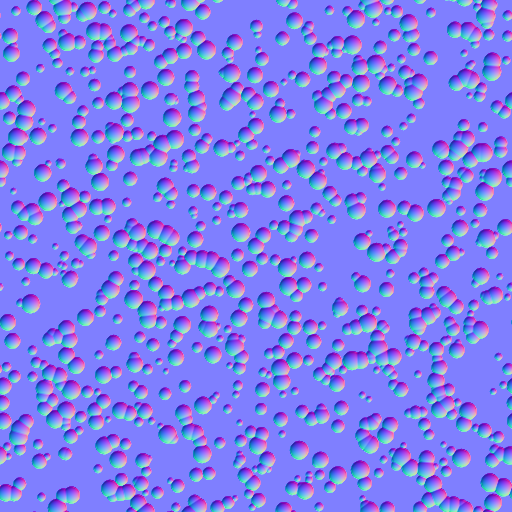
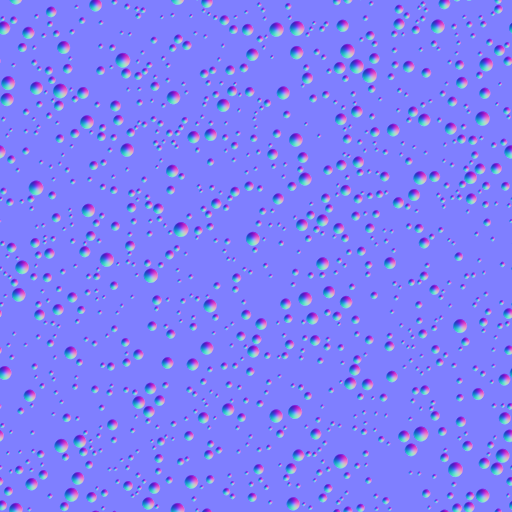
Sparse bead map, dust vs mud, windscreen drops overlay (flagged)

diff --git a/tools/gen_droplets.py b/tools/gen_droplets.py
@@ -3,13 +3,21 @@
 import os, numpy as np
 from PIL import Image
 N, rng = 512, np.random.default_rng(7)
+TARGET = 0.12                                   # share of the tile that is a bead: rain on paint is sparse, flat paint in between
 h = np.zeros((N, N), np.float32)
 yy, xx = np.mgrid[0:N, 0:N].astype(np.float32)
-for _ in range(900):
-    cx, cy, r = rng.uniform(0, N), rng.uniform(0, N), rng.uniform(2.5, 9) ** 1.0
+placed, area, tries = [], 0.0, 0
+while area < TARGET * N * N and tries < 20000:
+    tries += 1
+    r = 1.5 + 5.5 * rng.random() ** 2.5          # many small beads, a few big ones
+    cx, cy = rng.uniform(0, N), rng.uniform(0, N)
+    if any(min(abs(cx - x), N - abs(cx - x)) ** 2 + min(abs(cy - y), N - abs(cy - y)) ** 2 < (r + q + 1.5) ** 2 for x, y, q in placed):
+        continue                                  # beads do not touch (they would have merged)
+    placed.append((cx, cy, r)); area += np.pi * r * r
     dx = np.minimum(np.abs(xx - cx), N - np.abs(xx - cx)); dy = np.minimum(np.abs(yy - cy), N - np.abs(yy - cy))
     d2 = (dx * dx + dy * dy) / (r * r)
-    h = np.maximum(h, np.where(d2 < 1, np.sqrt(np.clip(1 - d2, 0, 1)) * r, 0))
+    h = np.maximum(h, np.where(d2 < 1, (1 - d2) * r, 0))   # smooth round cap, flat outside
+print(len(placed), 'beads, coverage', round(area / (N * N), 3))
 gx = (np.roll(h, -1, 1) - np.roll(h, 1, 1)) * 0.5
 gy = (np.roll(h, -1, 0) - np.roll(h, 1, 0)) * 0.5
 n = np.dstack([-gx, -gy, np.full_like(h, 1.0)]); n /= np.linalg.norm(n, axis=2, keepdims=True)
